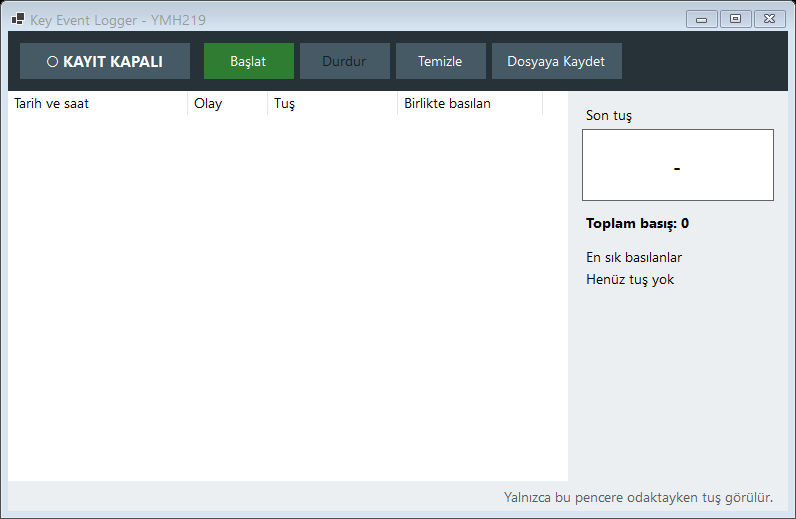
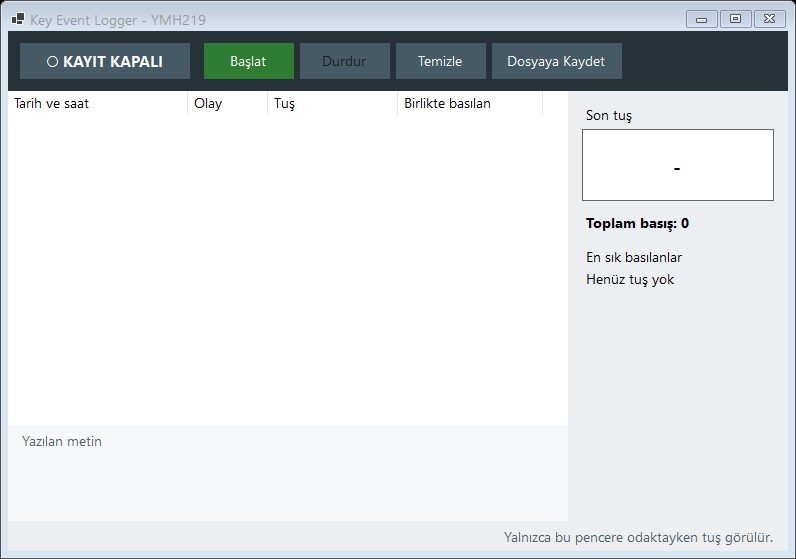
README ve ekran goruntusunu guncelle

diff --git a/README.md b/README.md
@@ -29,6 +29,8 @@ Gereken: .NET 8 SDK veya Visual Studio 2022.
 ## Temel Özellikler
 
 - Basılan ve bırakılan tuşun adı, Ctrl/Shift/Alt bilgisi ve milisaniyeli tarih-saati sütunlu listede görünür
+- `KeyPress` ile gerçek karakter yakalanır: Türkçe harfler `Oem4` gibi kodlarla değil `ğ` olarak görünür
+- Yazılan metin ayrı bir alanda oluşur, geri silme ve Enter işlenir
 - Yan panelde son tuş, toplam basış sayısı ve en sık basılan 5 tuş gösterilir
 - Alt çubuk pencerenin odakta olup olmadığını söyler; odak yoksa tuş yakalanmaz
 - **Başlat** ve **Durdur** ile kayıt kontrolü
@@ -40,7 +42,8 @@ Gereken: .NET 8 SDK veya Visual Studio 2022.
 Kayıt satırı biçimi:
 
 ```
-2026-11-03 21:50:01.123 | KeyDown | A | Shift
+2026-11-03 21:50:01.123 | KeyDown | A | Shift | 'A'
+2026-11-03 21:50:01.456 | KeyDown | Oem4 | 'ğ'
 ```
 
 ## Sınıf Yapısı
@@ -60,5 +63,6 @@ Kayıt satırı biçimi:
 ## Bilinen Sınırlamalar
 
 - Kayıt sırasında klavye butonlara basamaz. Durdurmak için fare veya `Alt+D` kullanılır.
+- Yazılan metin alanı yalnızca son 200 karakteri gösterir.
 - Liste bellekte tutulur, uygulama kapanınca kaydedilmemiş olaylar kaybolur.
 - Tarih aralığına göre filtreleme yoktur.
